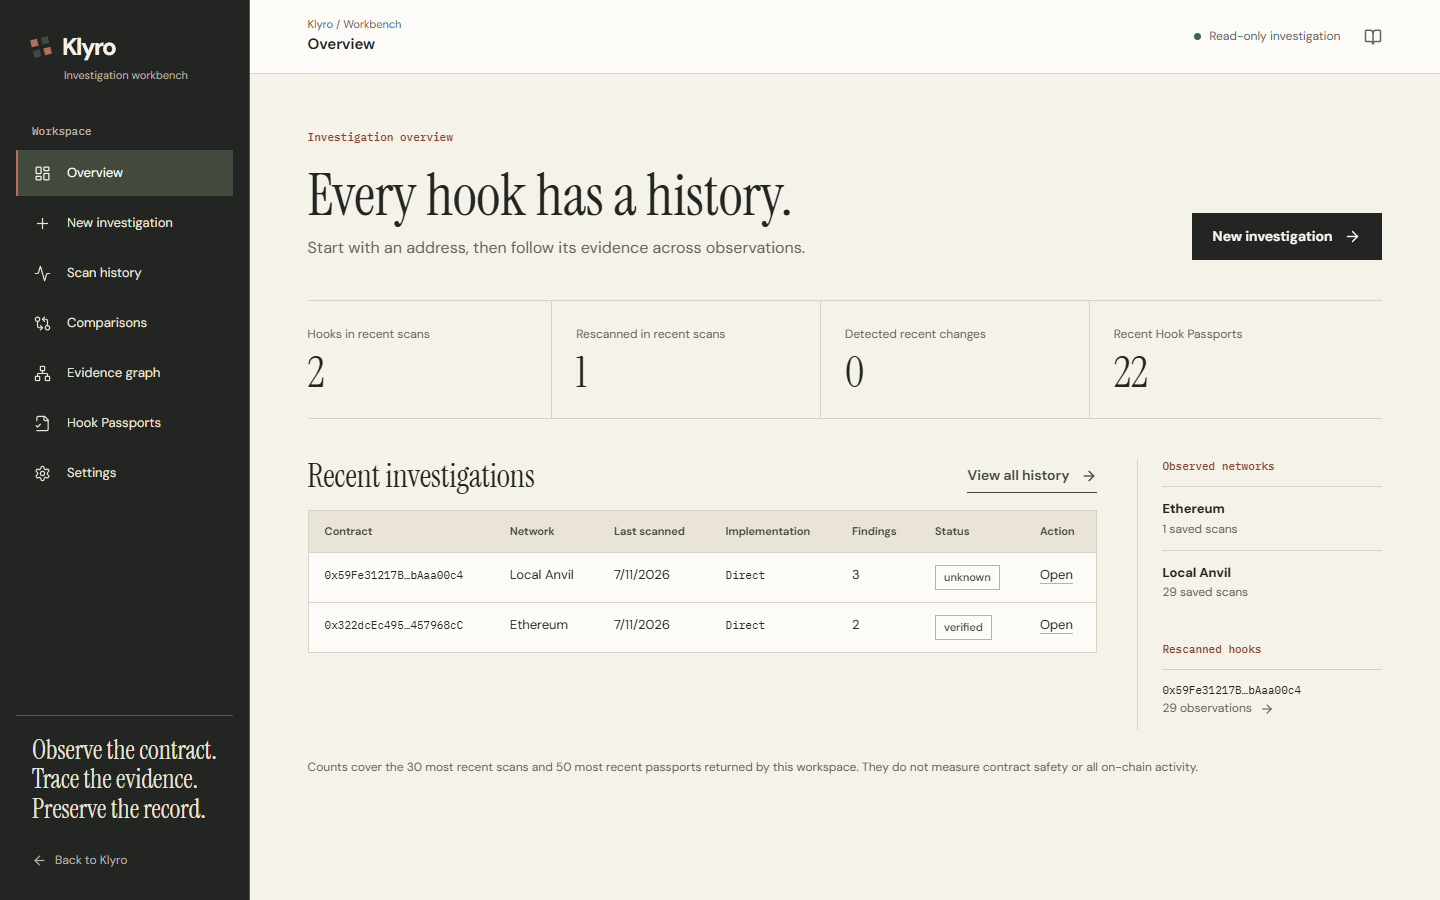
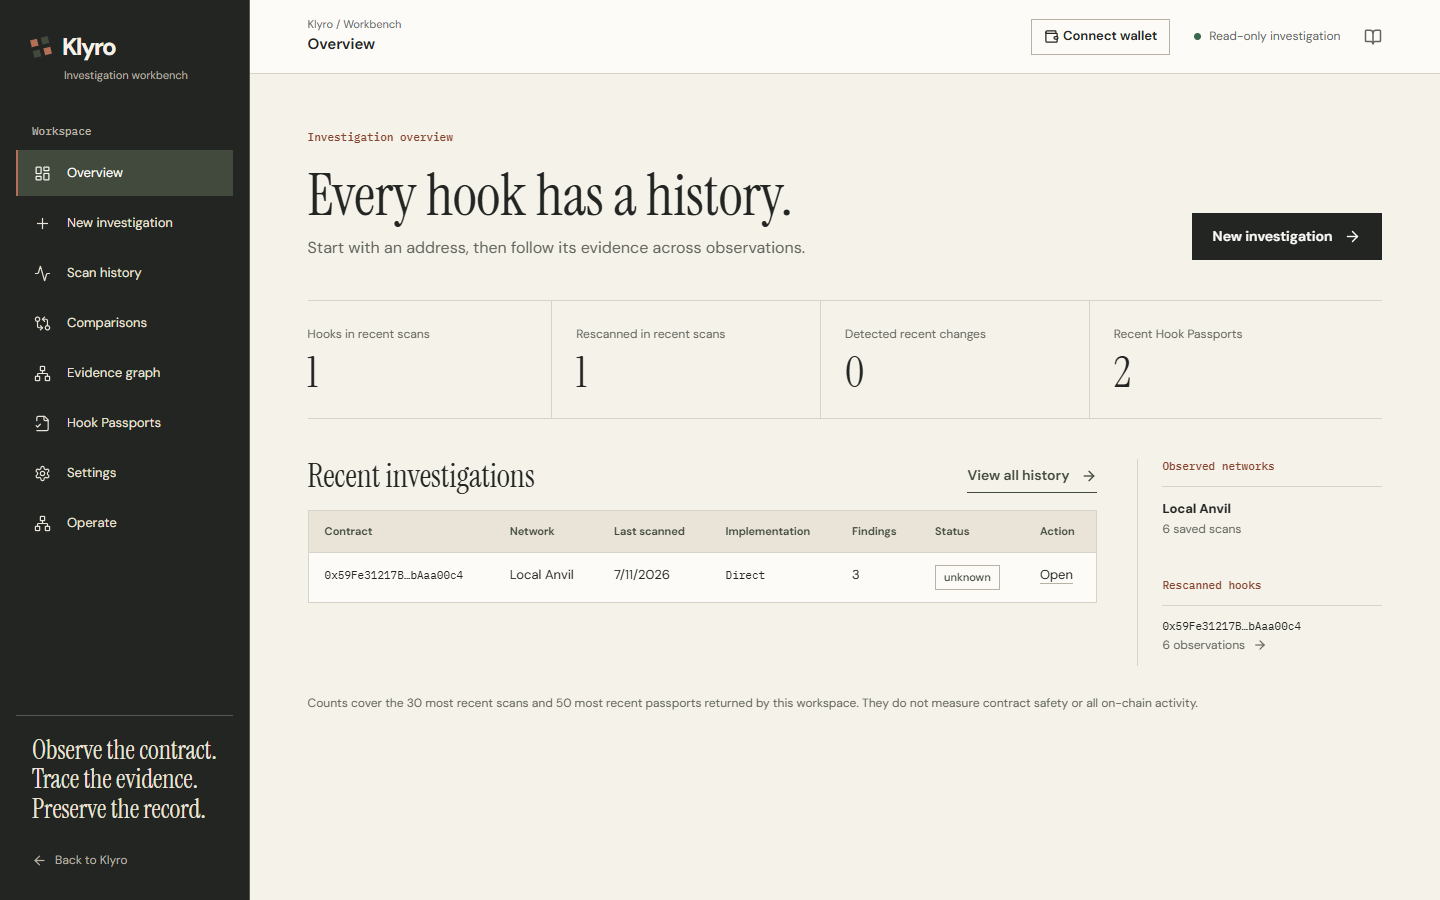
fix: align wallet browser flows with redesigned shell

diff --git a/tests/e2e/wallet.spec.ts b/tests/e2e/wallet.spec.ts
@@ -88,11 +88,11 @@ async function installWallet(
 test("the site loads and scans without any wallet installed", async ({ page }) => {
   const errors: string[] = [];
   page.on("pageerror", (e) => errors.push(e.message));
-  await page.goto("/");
+  await page.goto("/app?view=scanner");
   // No provider was installed: the control must still be a real button, and it
   // must not pretend a wallet is connected.
   const connect = page
-    .locator("header.topbar")
+    .locator("header.app-topbar")
     .getByRole("button", { name: /connect wallet/i });
   await expect(connect).toBeVisible();
   await expect(page.getByLabel("Hook address")).toBeVisible();
@@ -107,72 +107,72 @@ test("the site loads and scans without any wallet installed", async ({ page }) =
 
 test("connect shows the shortened address and the current network", async ({ page }) => {
   await installWallet(page, { chainId: 1 });
-  await page.goto("/");
-  await page.locator("header.topbar").getByRole("button", { name: /connect wallet/i }).click();
-  await expect(page.locator("header.topbar .wallet-chip")).toHaveText("0x1111…1111");
-  await expect(page.locator("header.topbar .wallet-net")).toContainText("Ethereum");
+  await page.goto("/app?view=scanner");
+  await page.locator("header.app-topbar").getByRole("button", { name: /connect wallet/i }).click();
+  await expect(page.locator("header.app-topbar .wallet-chip")).toHaveText("0x1111…1111");
+  await expect(page.locator("header.app-topbar .wallet-net")).toContainText("Ethereum");
 });
 
 test("an account switch in the wallet updates the header", async ({ page }) => {
   await installWallet(page);
-  await page.goto("/");
-  await page.locator("header.topbar").getByRole("button", { name: /connect wallet/i }).click();
-  await expect(page.locator("header.topbar .wallet-chip")).toContainText("0x1111");
+  await page.goto("/app?view=scanner");
+  await page.locator("header.app-topbar").getByRole("button", { name: /connect wallet/i }).click();
+  await expect(page.locator("header.app-topbar .wallet-chip")).toContainText("0x1111");
   await page.evaluate(() => {
     const provider = (window as unknown as { ethereum: { __emit(e: string, ...a: unknown[]): void; __accountB: string } }).ethereum;
     provider.__emit("accountsChanged", [provider.__accountB]);
   });
-  await expect(page.locator("header.topbar .wallet-chip")).toContainText("0x2222");
+  await expect(page.locator("header.app-topbar .wallet-chip")).toContainText("0x2222");
 });
 
 test("a network change in the wallet updates the header label", async ({ page }) => {
   await installWallet(page);
-  await page.goto("/");
-  await page.locator("header.topbar").getByRole("button", { name: /connect wallet/i }).click();
-  await expect(page.locator("header.topbar .wallet-net")).toContainText("Ethereum");
+  await page.goto("/app?view=scanner");
+  await page.locator("header.app-topbar").getByRole("button", { name: /connect wallet/i }).click();
+  await expect(page.locator("header.app-topbar .wallet-net")).toContainText("Ethereum");
   await page.evaluate(() => {
     (window as unknown as { ethereum: { __emit(e: string, ...a: unknown[]): void } }).ethereum.__emit(
       "chainChanged",
       "0xaa36a7",
     );
   });
-  await expect(page.locator("header.topbar .wallet-net")).toContainText("Sepolia");
+  await expect(page.locator("header.app-topbar .wallet-net")).toContainText("Sepolia");
 });
 
 test("the network menu switches only after the operator clicks a network", async ({ page }) => {
   await installWallet(page);
-  await page.goto("/");
-  await page.locator("header.topbar").getByRole("button", { name: /connect wallet/i }).click();
+  await page.goto("/app?view=scanner");
+  await page.locator("header.app-topbar").getByRole("button", { name: /connect wallet/i }).click();
   // Nothing is switched on connect: the wallet's own chain is shown as-is.
-  await expect(page.locator("header.topbar .wallet-net")).toContainText("Ethereum");
-  await page.locator("header.topbar .wallet-net").click();
+  await expect(page.locator("header.app-topbar .wallet-net")).toContainText("Ethereum");
+  await page.locator("header.app-topbar .wallet-net").click();
   const menu = page.getByRole("menu", { name: "Switch network" });
   await expect(menu).toBeVisible();
   for (const name of ["Ethereum Mainnet", "Sepolia", "Base Mainnet", "Local Anvil"])
     await expect(menu.getByText(name, { exact: true })).toBeVisible();
   await menu.getByRole("menuitem", { name: /Base Mainnet/ }).click();
-  await expect(page.locator("header.topbar .wallet-net")).toContainText("Base");
+  await expect(page.locator("header.app-topbar .wallet-net")).toContainText("Base");
 });
 
 test("a rejected connection is reported and nothing is connected", async ({ page }) => {
   await installWallet(page, { reject: true });
-  await page.goto("/");
-  await page.locator("header.topbar").getByRole("button", { name: /connect wallet/i }).click();
-  await expect(page.locator("header.topbar .wallet-error")).toContainText(
+  await page.goto("/app?view=scanner");
+  await page.locator("header.app-topbar").getByRole("button", { name: /connect wallet/i }).click();
+  await expect(page.locator("header.app-topbar .wallet-error")).toContainText(
     /rejected the connection/i,
   );
-  await expect(page.locator("header.topbar .wallet-chip")).toHaveCount(0);
+  await expect(page.locator("header.app-topbar .wallet-chip")).toHaveCount(0);
 });
 
 test("disconnect clears the connected address", async ({ page }) => {
   await installWallet(page);
-  await page.goto("/");
-  await page.locator("header.topbar").getByRole("button", { name: /connect wallet/i }).click();
-  await expect(page.locator("header.topbar .wallet-chip")).toBeVisible();
-  await page.locator("header.topbar").getByRole("button", { name: "Disconnect wallet" }).click();
-  await expect(page.locator("header.topbar .wallet-chip")).toHaveCount(0);
+  await page.goto("/app?view=scanner");
+  await page.locator("header.app-topbar").getByRole("button", { name: /connect wallet/i }).click();
+  await expect(page.locator("header.app-topbar .wallet-chip")).toBeVisible();
+  await page.locator("header.app-topbar").getByRole("button", { name: "Disconnect wallet" }).click();
+  await expect(page.locator("header.app-topbar .wallet-chip")).toHaveCount(0);
   await expect(
-    page.locator("header.topbar").getByRole("button", { name: /connect wallet/i }),
+    page.locator("header.app-topbar").getByRole("button", { name: /connect wallet/i }),
   ).toBeVisible();
 });
 

diff --git a/tests/e2e/operator.spec.ts b/tests/e2e/operator.spec.ts
@@ -11,7 +11,7 @@ import { test, expect } from "@playwright/test";
 test("operator page explains what it does with no wallet installed", async ({
   page,
 }) => {
-  await page.goto("/?view=deploy");
+  await page.goto("/app?view=deploy");
   await expect(page.getByRole("heading", { name: "Registry deployment and publication" })).toBeVisible();
   await expect(
     page.getByRole("heading", { name: "1. Deploy HookRiskRegistry" }),
@@ -32,8 +32,8 @@ test("operator page explains what it does with no wallet installed", async ({
 test("a wallet control is present in the header and analysis needs no wallet", async ({
   page,
 }) => {
-  await page.goto("/");
-  const header = page.locator("header.topbar");
+  await page.goto("/app?view=scanner");
+  const header = page.locator("header.app-topbar");
   await expect(
     header.getByText(/Connect wallet|No wallet/),
   ).toBeVisible();
@@ -45,7 +45,7 @@ test("a wallet control is present in the header and analysis needs no wallet", a
 test("registry publication states that publishing is not a safety verdict", async ({
   page,
 }) => {
-  await page.goto("/?view=deploy");
+  await page.goto("/app?view=deploy");
   await expect(
     page.getByText(/not that the hook\s+is safe|not that the hook is safe/i),
   ).toBeVisible();

diff --git a/src/app/tokens.css b/src/app/tokens.css
@@ -57,6 +57,7 @@
   --container: 1320px;
   --gutter: clamp(20px, 4vw, 72px);
   --dur-short: 180ms;
+  --z-dropdown: 50;
   --ease-out: cubic-bezier(0.2, 0.8, 0.2, 1);
   --color-transparent: transparent;
 }

diff --git a/src/app/globals.css b/src/app/globals.css
@@ -317,6 +317,8 @@ small {
   }
 }
 .app-topbar {
+  position: relative;
+  z-index: 20;
   height: 74px;
   display: flex;
   align-items: center;

diff --git a/README.md b/README.md
@@ -30,7 +30,7 @@ The core application is implemented and locally verified. **The full hackathon c
 - Canonical Hook Passports, browser-side hashing, tamper rejection, registry readback and a separate current-contract match.
 - Official 0G Router integration and CRE workflow code with honest unavailable/blocked states. CRE compiled to WASM; compilation is not successful CLI simulation.
 - A header wallet control that detects injected wallets through EIP-6963 (with `window.ethereum` as a fallback), shows the shortened address and current network, offers an explicit network switch between Ethereum Mainnet (1), Sepolia (11155111), Base Mainnet (8453) and Local Anvil (31337), and follows account and network changes. A rejected prompt is reported as a rejection, and Klyro never switches the user's network on its own.
-- Wallet-signed registry deployment and report publication (`/?view=deploy`). The server prepares the exact transaction and reads the receipt back; it holds no key, and nothing is recorded as deployed or published without a confirmed chain response. Analysis stays usable with no wallet at all.
+- Wallet-signed registry deployment and report publication (`/app?view=deploy`). The server prepares the exact transaction and reads the receipt back; it holds no key, and nothing is recorded as deployed or published without a confirmed chain response. Analysis stays usable with no wallet at all.
 - Scheduled hook monitoring with a durable SQLite lease, per-run history, backoff and restart recovery; monitoring survives restarts and never double scans a hook.
 - Live 0G diagnosis: the configured account returns HTTP 402 `pay_no_balance`, so inference is reported unavailable rather than fabricated. The app distinguishes empty credits from a wrong model id.
 
@@ -89,7 +89,7 @@ npm run test:e2e
 
 On Windows, browser tests use the installed Microsoft Edge. On Linux/macOS run `npx playwright install chromium`; omit BROWSER_PATH or set it to chromium. BROWSER_PATH may also be an explicit browser executable path.
 
-Verified on 7 November 2026: **104 Vitest tests and 28 Playwright tests (desktop and mobile viewports) passed, the production build passed, a real live-chain scan ran with no wallet installed, and local scan/passport/registry integration and proxy upgrade detection remain green**. The wallet tests drive a mock EIP-1193 provider, which exercises Klyro's own behaviour; they are not a test of the MetaMask extension itself, and no real signature is claimed. See EVIDENCE.md for actual runs and failures found and fixed.
+Verified on 7 November 2026 after the redesign and backend merge: **104 Vitest tests and 32 Playwright tests (desktop and mobile viewports) passed, the production build passed, a real live-chain scan ran with no wallet installed, and local scan/passport/registry integration and proxy upgrade detection remain green**. The wallet tests drive a mock EIP-1193 provider, which exercises Klyro's own behaviour; they are not a test of the MetaMask extension itself, and no real signature is claimed. See EVIDENCE.md for actual runs and failures found and fixed.
 
 
 The attention index is capped at 100: info=0, low=5, medium=15, high=30. It measures rule-weighted investigation attention, not exploit probability, safety or a full audit result.

diff --git a/EVIDENCE.md b/EVIDENCE.md
@@ -128,6 +128,8 @@ evidence/registry-deployment.json (both chain 31337).
 - A fresh read-only Ethereum scan completed through the unchanged API: hook `0x322dcEc4958C14e021A9F1cD49DF11b9457968cC`, block `26358991`, verified source, all 14 permission flags, two deterministic findings. The UI does not substitute this record for later scans.
 - Optional 0G and authenticated CRE statuses remain pending as documented above. No key, credit, transaction or publication success was invented.
 
+After rebasing this redesign onto the newer backend, wallet and operator work, the merged code passed 104 Vitest tests, the production build and 32 Playwright tests across desktop and mobile. The browser suite exercised the wallet state and network menu in the new application shell, plus scan, evidence, comparison and passport flows. The production server was restarted after the build before the final browser run. The wallet tests use a mock EIP-1193 provider; no real wallet signature is claimed.
+
 
 ## Fresh-checkout CI
 
